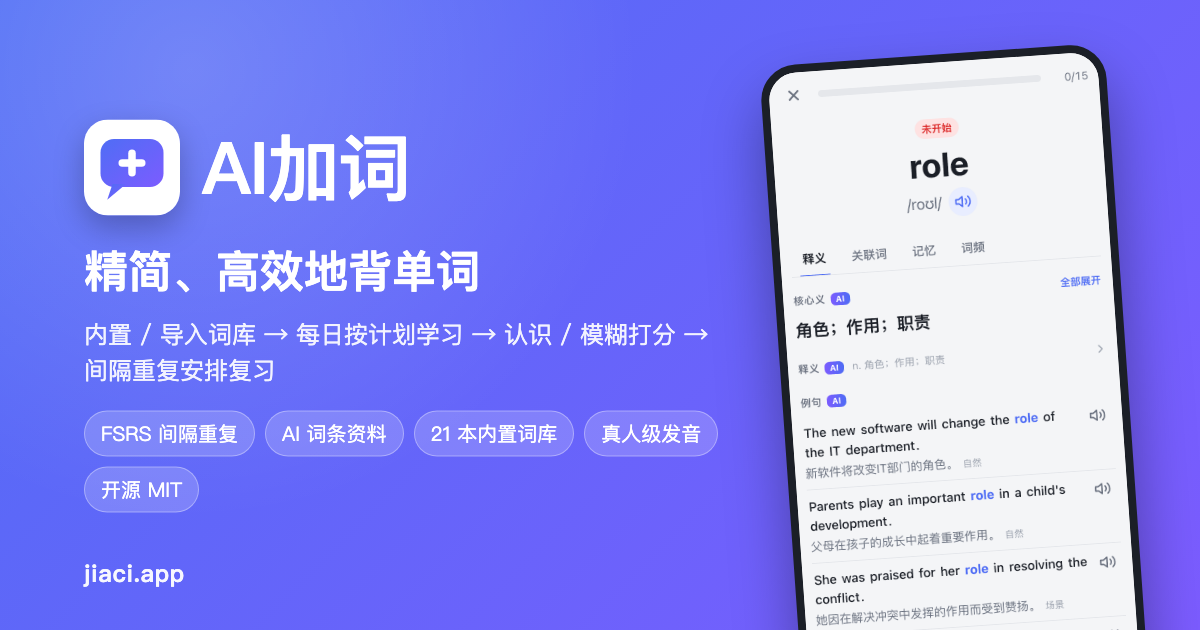
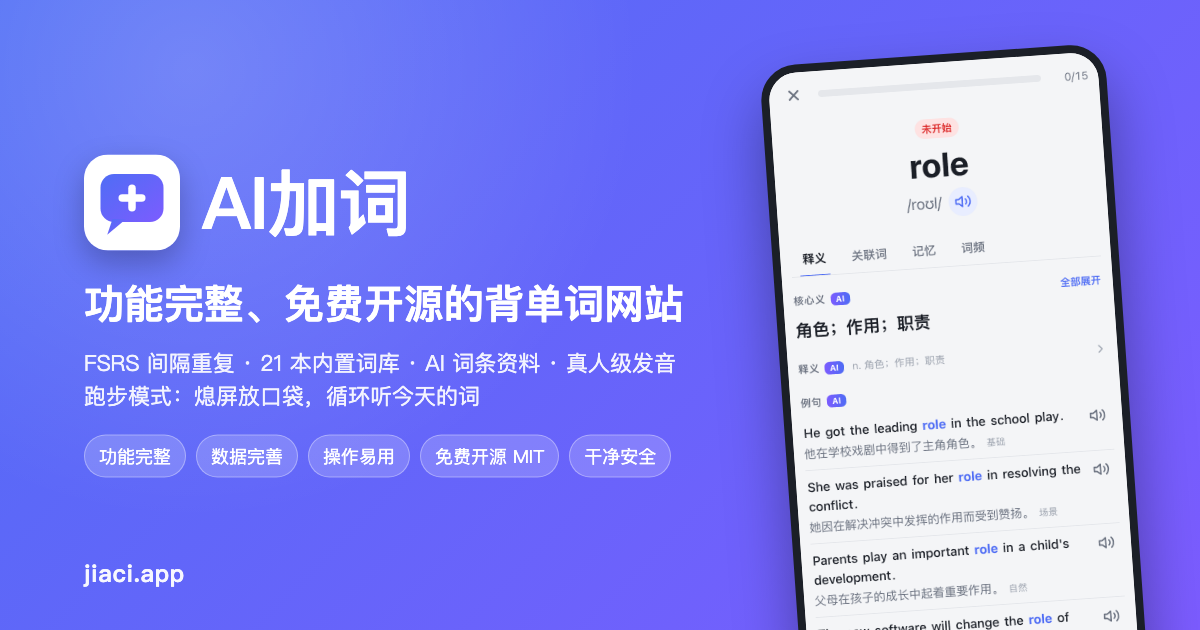
对外定位改口：不再自称「精简」，突出功能完整 / 数据完善 / 操作易用 / 免费开源 / 干净安全，并单独介绍跑步模式 - 落地页：标题与导语改写，新增五点一栏与「跑步模式」一节（说明 + 播放页截图），截图行加跑步模式一张，「为什么做这个」与真人级发音卡文案随之调整 - README：首段、英文简介、「设计初衷」改写，新增「特点」与「跑步模式」两节 - 根布局 meta description、分享文案 SHARE_TEXT、应用清单 description、分享卡片 og.png 同步改成同一套话 - 截图脚本加跑步模式播放页（准备音频 → 开始播放后截图）、ONLY 只截指定几张，Ch

Changed region(s): [[0.0617, 0.181, 0.6167, 0.8143], [0.6475, 0.6333, 0.925, 1.0]]

diff --git a/src/app/page.tsx b/src/app/page.tsx
@@ -11,20 +11,30 @@ const SHOTS = [
   { src: "/shots/study.png", caption: "学习卡片：点击显示答案，认识 / 模糊打分" },
   { src: "/shots/word.png", caption: "单词详情：释义 / 关联词 / 记忆 / 词频" },
   { src: "/shots/wordbook.png", caption: "单词列表：四色状态，拖动一行直接操作" },
+  { src: "/shots/run.png", caption: "跑步模式：熄屏放口袋，循环听今天的词" },
+];
+
+/** 对外定位的五点（需求 1.1）：README 的「特点」一节与这里是同一套话 */
+const PILLARS = [
+  { title: "功能完整", text: "FSRS 间隔重复、21 本内置词库与导入 / 自建、学习卡与单词详情、列表拖拽与自测、跑步模式、公开词典、装成应用、深色模式、数据导出。" },
+  { title: "数据完善", text: "2.8 万个单词与短语，每个词有词典字段与 AI 填充的十几个学习维度；单词、例句、中文释义与例句译文全部有真人级发音。" },
+  { title: "操作易用", text: "邮箱验证码登录，每次只答「认识 / 模糊」，长按上滑已掌握，拖动一行直接操作；手机与桌面一套代码。" },
+  { title: "免费开源", text: "MIT 许可，代码、数据库结构、词条字段、词表与离线脚本全部公开，谁都能查、也能自己部署；免费、无广告。" },
+  { title: "干净安全", text: "不卖数据、没有社交与打卡、只收邮箱一项信息；学习记录随时导出，账号随时注销，运行时不调用任何 AI 接口。" },
 ];
 
 const FEATURES = [
   { title: "FSRS 间隔重复", text: "按目标记忆保持率安排复习：难词密、简单词疏，间隔达到阈值自动转为已掌握。每次只需回答「认识」或「模糊」。" },
   { title: "21 本内置词库", text: "高频核心 / 进阶 / 拓展，中高考、四六级、考研、托福、雅思、GRE，学术词汇、常用短语与词组，以及租房、看病、银行、职场、孩子上学、数字生活六本海外场景词库；也可以导入 txt 或手动添加。" },
   { title: "AI 填充的词条资料", text: "核心义、义项、例句、搭配、句型、辨析、词族、助记、词源——离线生成、全局共用，浏览时不用等任何模型；词条与内置词库公开可查，不用登录。" },
-  { title: "真人级发音", text: "英美口音 × 男女声四种组合，例句与中文释义也能朗读；学习卡片可自动朗读。跑步模式把今天的词连同释义、例句拼成一整段循环播放，手机熄屏放口袋也不停。" },
+  { title: "真人级发音", text: "英美口音 × 男女声四种组合，单词、例句、中文释义与例句译文都能朗读；学习卡片可自动朗读，缺失的发音按需合成。" },
   { title: "列表就是工具", text: "四色状态一眼看清进度；隐藏释义 / 隐藏英文两种自测；横向拖动一行就能打分或移出，长按多选，几秒内可撤销。" },
   { title: "手机与桌面一套", text: "加到手机主屏当应用用，桌面端有快捷键；深色模式、数据导出、随时注销。" },
 ];
 
 /**
  * 站点入口：已登录直接进首页；未登录看到的是落地页——对搜索引擎与分享链接来说这是唯一能看到内容的一页，
- * 文案与 README 保持一致（需求 4.4）。
+ * 文案与 README 保持一致（需求 4.1「对外文案与落地页」：功能完整 / 数据完善 / 操作易用 / 免费开源 / 干净安全五点 + 跑步模式一节）。
  */
 export default async function Index() {
   const user = await getCurrentUser();
@@ -42,8 +52,8 @@ export default async function Index() {
 
       <main>
         <section className="land-hero">
-          <h1>精简、高效地背单词</h1>
-          <p className="land-lead">内置 / 导入词库 → 每日按计划学习 → 认识 / 模糊打分 → 间隔重复安排复习。<br />免费使用，仅中文界面，为海外的英语学习者而做。</p>
+          <h1>功能完整、免费开源的背单词网站</h1>
+          <p className="land-lead">FSRS 间隔重复安排复习，21 本内置词库，AI 填充的词条资料，真人级发音；跑步模式熄屏放口袋也能循环听今天的词。<br />数据完善、操作易用、无广告、不卖数据；仅中文界面，为海外的英语学习者而做。</p>
           <div className="land-cta">
             <Link className="btn btn-primary btn-lg" href="/login">邮箱登录，开始学习</Link>
             <a className="btn btn-secondary btn-lg" href={REPO} target="_blank" rel="noopener">查看源码</a>
@@ -52,6 +62,15 @@ export default async function Index() {
             <strong>代码与数据结构全部开源（MIT）</strong>：应用源码、数据库表结构、词条字段定义、内置词库词表与离线脚本都在 <a href={REPO} target="_blank" rel="noopener">GitHub</a> 上，谁都能查、可以自行部署一套。免费、无广告、不卖数据，学习记录随时导出、账号随时注销。
           </p>
           <p className="small muted">无需密码，邮箱验证码登录，首次登录自动注册。所有词条与内置词库<Link href="/dict">公开可查</Link>，不用登录</p>
+        </section>
+
+        <section className="land-pillars" aria-label="五个特点">
+          {PILLARS.map((p) => (
+            <div key={p.title}>
+              <h3>{p.title}</h3>
+              <p>{p.text}</p>
+            </div>
+          ))}
         </section>
 
         <section className="land-shots" aria-label="界面截图">
@@ -74,9 +93,26 @@ export default async function Index() {
           ))}
         </section>
 
+        <section className="land-run card">
+          <div className="land-run-text">
+            <h2>跑步模式：熄屏放口袋，循环听今天的词</h2>
+            <p>戴上耳机跑步、走路、通勤时打开跑步模式：把今天要学和已学的词（每轮 30 / 50 / 100 / 150 个可选）连同中文释义、1–3 条例句拼成一整段音频循环播放。开跑前一次下载好，之后不再碰网络；手机熄屏、切到别的应用都不停。</p>
+            <ul>
+              <li>例句中英对照、句中本词高亮；可只读英文，或英文后接中文译文</li>
+              <li>锁屏与通知栏的媒体控件、耳机线控都能暂停、切上一个 / 下一个</li>
+              <li>单词、音标、释义、例句撑满一屏，字大按钮大，跑步时看一眼就清楚；可保持屏幕常亮</li>
+              <li>每个词读几遍、词间间隔、语速、例句读法随时改，改完接着播</li>
+            </ul>
+          </div>
+          <figure>
+            {/* eslint-disable-next-line @next/next/no-img-element */}
+            <img src="/shots/run.png" alt="跑步模式播放页" width={780} height={1688} loading="lazy" />
+          </figure>
+        </section>
+
         <section className="land-why card">
           <h2>为什么做这个</h2>
-          <p>做一个边上班边学英语背单词的好工具。试过很多背单词应用，也开过会员，总有不满意的地方，于是自己动手做了一个：只保留背单词最需要的东西，把复习交给算法，把词条资料一次做好给所有人共用。</p>
+          <p>做一个边上班边学英语背单词的好工具。试过很多背单词应用，也开过会员，总有不满意的地方，于是自己动手做了一个：把背单词该有的功能做全、数据做完善，把复习交给算法，把词条资料一次做好给所有人共用，不放广告、不卖数据。</p>
           <p>词典数据来自 ECDICT，词表参照公开大纲与 NGSL / NAWL / AWL 整理，调度算法是 FSRS——代码与数据结构（数据库表、词条字段、词表）都以 MIT 许可放在 <a href={REPO} target="_blank" rel="noopener">GitHub</a> 上，欢迎自行部署或提意见。</p>
         </section>
       </main>

diff --git a/src/app/landing.css b/src/app/landing.css
@@ -13,6 +13,12 @@
 .land-open strong{color:var(--primary)}
 .land-open a{font-weight:600;text-decoration:underline}
 
+/* 五点定位（功能完整 / 数据完善 / 操作易用 / 免费开源 / 干净安全）：一排五小块，标题主色，正文小字 */
+.land-pillars{display:grid;grid-template-columns:repeat(5,1fr);gap:12px;margin:8px 0 20px}
+.land-pillars div{padding:14px 14px 12px;border:1px solid var(--border);border-radius:var(--radius);background:var(--card)}
+.land-pillars h3{font-size:16px;font-weight:700;color:var(--primary);margin:0 0 6px}
+.land-pillars p{margin:0;color:var(--muted);font-size:13px;line-height:1.6}
+
 .land-shots{display:flex;gap:16px;justify-content:center;overflow-x:auto;padding:8px 0 16px;scroll-snap-type:x mandatory;-webkit-overflow-scrolling:touch}
 .land-shots figure{flex:0 0 260px;margin:0;scroll-snap-align:center}
 .land-shots img{display:block;width:100%;height:auto;border:1px solid var(--border);border-radius:24px;box-shadow:var(--shadow-lg);background:var(--card)}
@@ -22,6 +28,15 @@
 .land-features .card{margin:0}
 .land-features h3{font-size:16px;margin:0 0 6px}
 .land-features p{margin:0;color:var(--muted);font-size:14px}
+
+/* 跑步模式一节：左边说明，右边一张播放页截图 */
+.land-run{margin-top:24px;display:flex;gap:28px;align-items:center}
+.land-run-text{flex:1;min-width:0}
+.land-run h2{font-size:18px;margin:0 0 8px}
+.land-run p{color:var(--muted);margin:0 0 10px}
+.land-run ul{margin:0;padding-left:1.2em;color:var(--muted);font-size:14px;line-height:1.7}
+.land-run figure{flex:0 0 220px;margin:0}
+.land-run img{display:block;width:100%;height:auto;border:1px solid var(--border);border-radius:24px;box-shadow:var(--shadow-lg);background:var(--card)}
 
 .land-why{margin-top:24px}
 .land-why h2{font-size:18px;margin:0 0 8px}
@@ -48,7 +63,13 @@
   .land-shots{justify-content:flex-start;margin:0 -16px;padding:8px 16px 16px}
   .land-shots figure{flex-basis:220px}
   .land-features{grid-template-columns:1fr}
+  .land-pillars{grid-template-columns:1fr;gap:8px}
+  .land-pillars div{padding:12px 14px 10px}
+  /* 手机上说明在上、截图在下，截图居中不撑满 */
+  .land-run{flex-direction:column;align-items:stretch;gap:16px}
+  .land-run figure{flex:none;width:200px;margin:0 auto}
 }
 @media (min-width:768px) and (max-width:1023px){
   .land-features{grid-template-columns:repeat(2,1fr)}
+  .land-pillars{grid-template-columns:repeat(3,1fr)}
 }

diff --git a/src/lib/sites.ts b/src/lib/sites.ts
@@ -31,4 +31,4 @@ export const REPO_URL = "https://github.com/leoon-hu/jiaci";
 /** 页脚与设置「关于」里的「开源」一句（落地页的开源声明是另一段更长的，文案与 README 同步） */
 export const OPEN_CLAIM = "代码与数据结构全部以 MIT 开源，谁都能查、也能自己部署；免费、无广告、不卖数据，学习记录随时导出、账号随时注销。";
 /** 「分享给朋友」发出去的一句话（后面跟站点链接） */
-export const SHARE_TEXT = "AI加词：精简、高效的背单词网站——FSRS 间隔重复、AI 填充的词条资料、真人级发音，21 本内置词库。免费、开源、无广告。";
+export const SHARE_TEXT = "AI加词：功能完整、免费开源的背单词网站——FSRS 间隔重复、21 本内置词库、AI 填充的词条资料、真人级发音，跑步模式熄屏也能听。无广告、不卖数据。";

diff --git a/src/app/layout.tsx b/src/app/layout.tsx
@@ -4,7 +4,7 @@ import { ToastProvider } from "@/components/Toast";
 import NavTracker from "@/components/NavTracker";
 import { siteUrl } from "@/lib/site";
 
-const DESCRIPTION = "精简、高效的背单词网站：内置 / 导入词库，FSRS 间隔重复安排复习，AI 填充的词条资料与真人级发音。免费、开源、仅中文界面，面向海外英语学习者。";
+const DESCRIPTION = "功能完整、免费开源的背单词网站：FSRS 间隔重复、21 本内置词库、AI 填充的词条资料、真人级发音，跑步模式熄屏也能循环听今天的词。数据完善、操作易用、无广告、不卖数据；仅中文界面，面向海外英语学习者。";
 
 export const metadata: Metadata = {
   metadataBase: new URL(siteUrl()),
